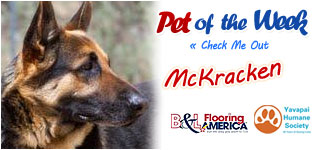
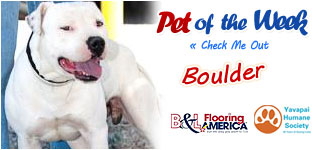
updated pet, removed kingsmen & surfaris

diff --git a/web/css/styles.css b/web/css/styles.css
@@ -46,7 +46,7 @@ table {
 	border-collapse: collapse;
 	border-spacing: 0;
 }
-/********* END BROWSER CSS RESET *********/
+/********* END BROWSER CSS RESET ********/
 
 body{
 	background-color:#21656d;
